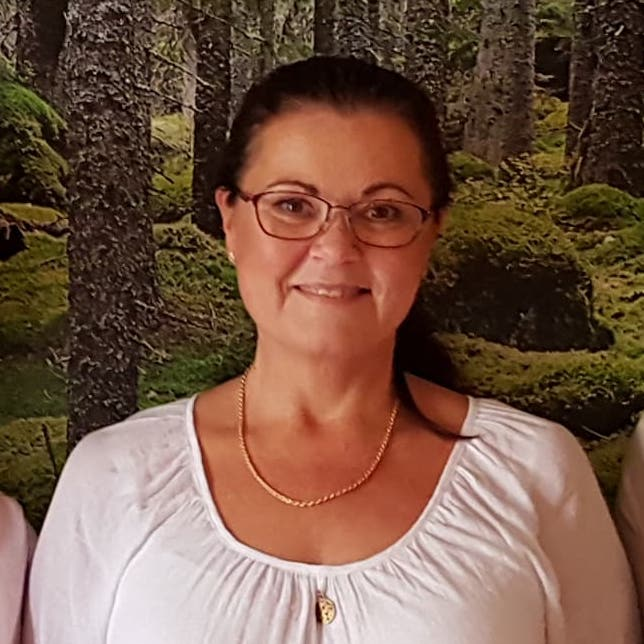
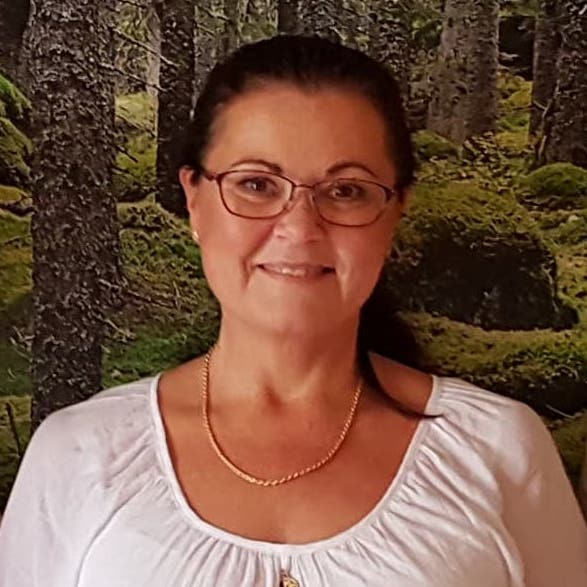
adjusted profile image

diff --git a/css/style.css b/css/style.css
@@ -174,7 +174,7 @@ header {
   height: 3em;
   padding: 0em;
   border-radius: 5px;
-  background: #072a2d;
+  background: #1a001a;
   color: white;
   -webkit-transition: opacity 250ms ease;
   transition: opacity 250ms ease;
@@ -302,7 +302,7 @@ header {
 .hero__button {
   cursor: pointer;
   margin-top: 0.5em;
-  background-color: black;
+  background-color: #1a001a;
   -webkit-box-shadow: 3px 3px 10px #30292f;
           box-shadow: 3px 3px 10px #30292f;
 }
@@ -322,8 +322,8 @@ header {
   display: block;
   margin: 2em auto 1em;
   border: 5px solid #b8a3b5;
-  -webkit-box-shadow: 3px 3px 10px black;
-          box-shadow: 3px 3px 10px black;
+  -webkit-box-shadow: 1px 1px 10px black;
+          box-shadow: 1px 1px 10px black;
 }
 
 .behandlingar__link,
@@ -380,8 +380,8 @@ header {
 .hitta-hit .section__btn,
 .produkter .section__btn {
   border-radius: 0.5em;
-  -webkit-box-shadow: 3px 3px 10px #30292f;
-          box-shadow: 3px 3px 10px #30292f;
+  -webkit-box-shadow: 1px 1px 10px #30292f;
+          box-shadow: 1px 1px 10px #30292f;
   margin-bottom: 1em;
 }
 
@@ -433,7 +433,7 @@ header {
 }
 
 .profil {
-  border-radius: 100%;
+  border-radius: 1em;
   width: 500px;
 }
 
@@ -448,7 +448,7 @@ header {
 
 .cta__button {
   margin-top: 1em;
-  background-color: black;
+  background-color: #1a001a;
   -webkit-box-shadow: 3px 3px 10px #30292f;
           box-shadow: 3px 3px 10px #30292f;
 }

diff --git a/index.html b/index.html
@@ -156,7 +156,7 @@
                      <div class="social mail"><a href="mailto:energywellnessbyc@gmail.com"><span class="fas fa-envelope-square"></span></span>energywellnessbyc@gmail.com</a></div>
                      <div class="social tel"><a href="tel:+46760808356"><span class="fas fa-phone-square-alt"></span>076 - 08 08 356</a></div>
                      <div class="social facebook"><a href="https://www.facebook.com/pg/energyowellnessbycatharina/"><span class="fab fa-facebook-square"></span>Energy and Wellness by Catharina</a></div>
-                     <div class="social instagram"><a href="https://www.instagram.com/energy_o_wellness_by_catharina/"><span class="fab fa-instagram"></span>@energy_o_wellness_by_catharina</a></div>
+                     <div class="social instagram"><a href="https://www.instagram.com/energy_o_wellness_by_catharina/"><span class="fab fa-instagram-square"></span>@energy_o_wellness_by_catharina</a></div>
                   </p>
                </div>
                <div class="col">
